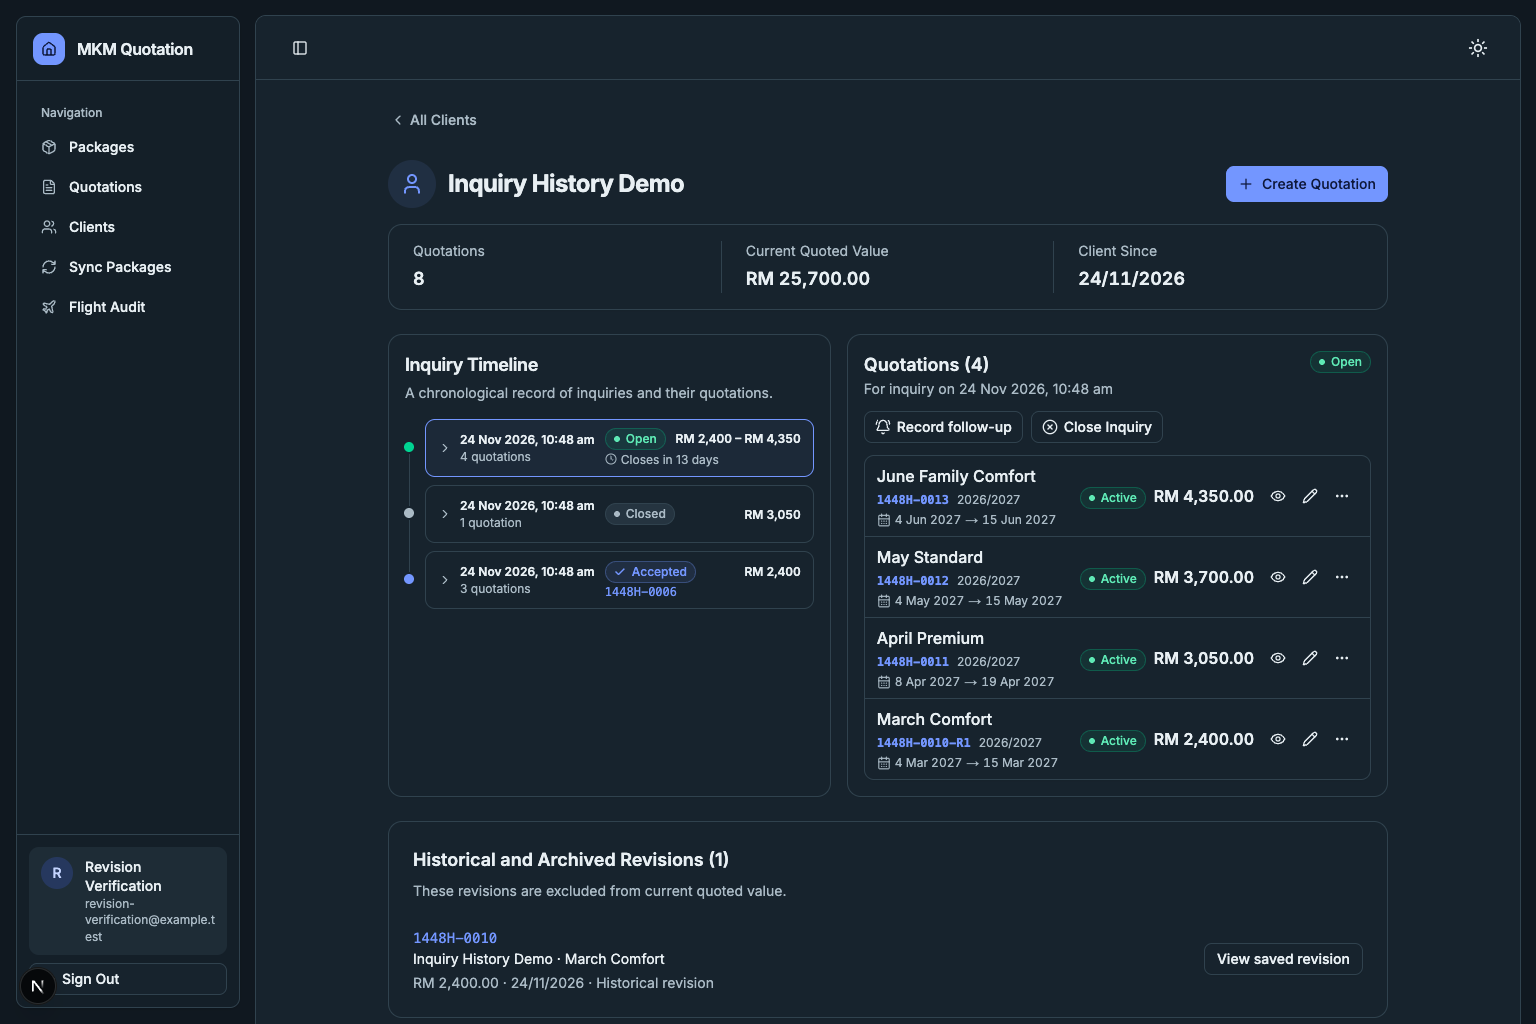
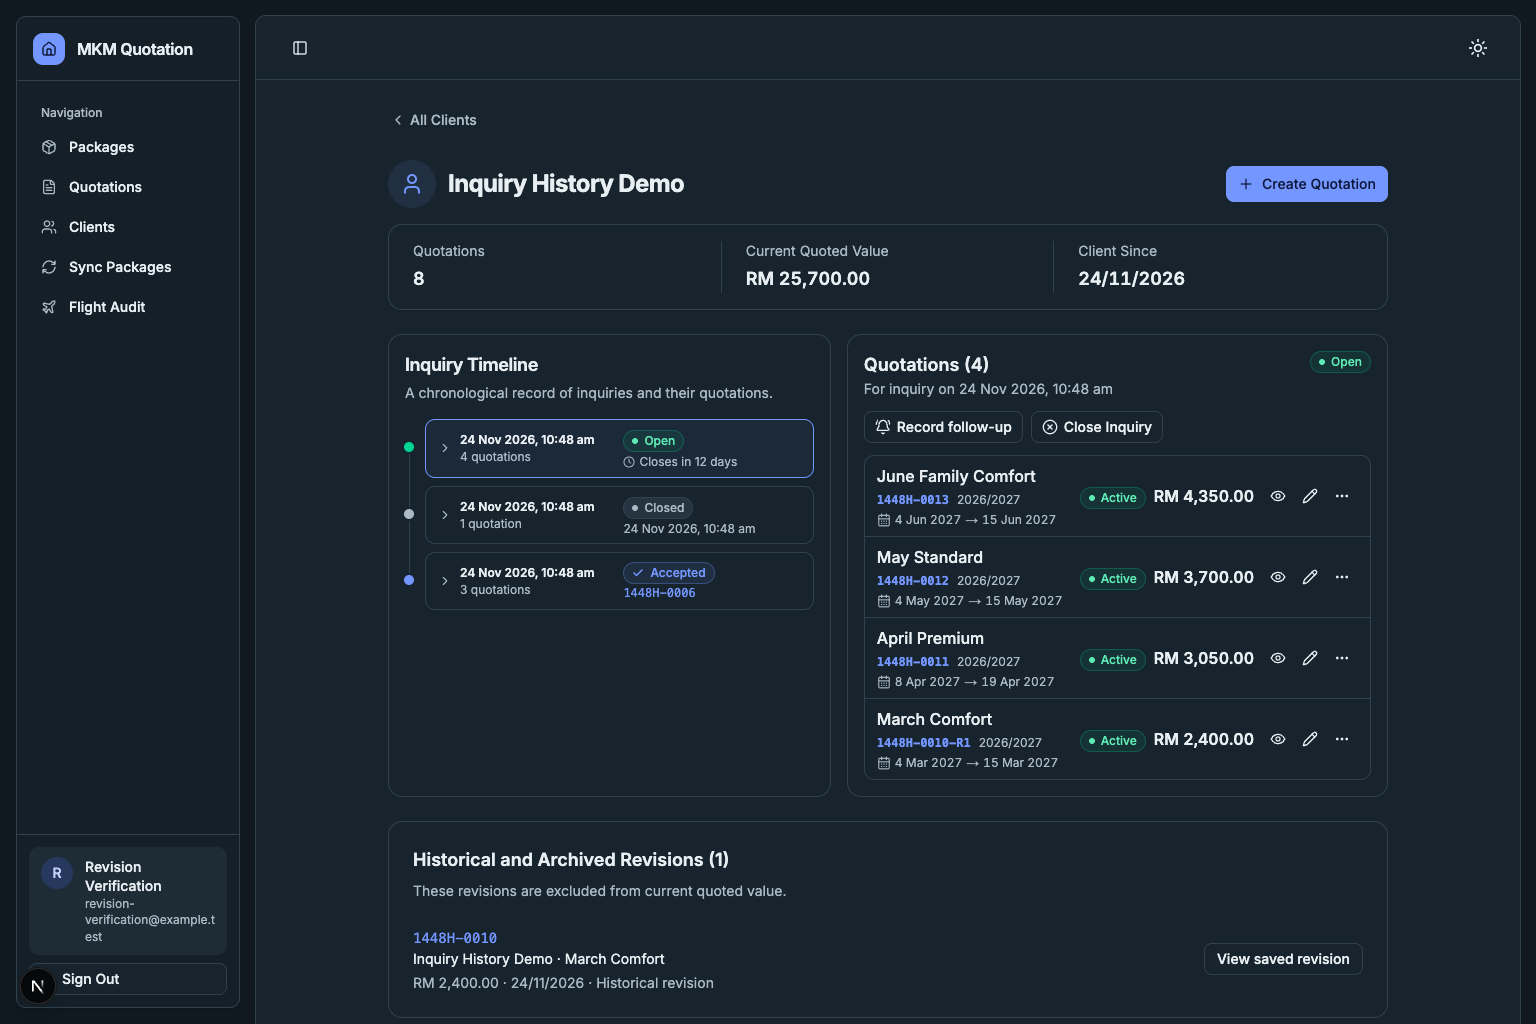
test(clients): refresh inquiry closure timestamp proof

Changed region(s): [[0.2812, 0.4062, 0.5312, 0.5938]]

diff --git a/docs/evidence/client-inquiry-timeline/README.md b/docs/evidence/client-inquiry-timeline/README.md
@@ -1,6 +1,6 @@
 # Client detail Inquiry timeline
 
-Tested commit `5a53dfe325bbf5102b1c784143e487046c078898` in Chrome against the disposable Inquiry History Demo fixture. The preview ran at `http://localhost:3561/clients/k174n2xbxp26jr6gynhzff033h8jt66b`.
+Tested commit `3947ef5ce4f520661f2bdf51034dc0f00878ec34` in Chrome against the disposable Inquiry History Demo fixture. The preview ran at `http://localhost:3561/clients/k174n2xbxp26jr6gynhzff033h8jt66b`.
 
 ## Captures
 
@@ -15,11 +15,11 @@ Tested commit `5a53dfe325bbf5102b1c784143e487046c078898` in Chrome against the d
 ## Browser checks
 
 - The Accepted pane fits each package name and travel date range on one line at 1536 px. The closure explanation appears below the quotation details. Read-only rows have space for one Preview action.
-- The Open badge and price range share a line at 1536 px and 390 px. The countdown sits beneath them. The page fits at 320 px without horizontal scrolling.
+- Timeline cards show the Open countdown, the Closed timestamp in Malaysia time, and the Accepted quotation reference. The quotation pane displays individual prices. In this fixture, the opening and closing times fall within the same minute. The page fits at 320 px without horizontal scrolling.
 - Desktop starts with the open Inquiry selected and shows four preview and edit links in the adjacent pane. Enter selects the closed Inquiry and shows its single read-only option. The accepted Inquiry shows three previews, including the exact accepted revision, and has zero edit links.
 - Resizing to phone width keeps the selected Inquiry and moves its quotations inline. Reloading the phone view collapses the cards. Space expands the open Inquiry, and the accepted Inquiry's fragment link expands the correct card.
 - All Clients returns to the directory. Create Quotation preselects Inquiry History Demo. View saved revision opens read-only revision `1448H-0010`.
 
-TypeScript, scoped ESLint, and 40 focused tests passed. The full suite passed 734 tests and reported 13 failures in `scripts/recoverable-save.test.mjs`. The same failures reproduce on the previous PR head because its test mock lacks `flushSync`.
+TypeScript, scoped ESLint, and 41 focused tests passed. The full suite passed 735 tests and reported 13 failures in `scripts/recoverable-save.test.mjs`. The same failures reproduce on the previous PR head because its test mock lacks `flushSync`.
 
 The browser run used the existing disposable fixture in read-only mode. The temporary Chrome session and web server closed after capture.
